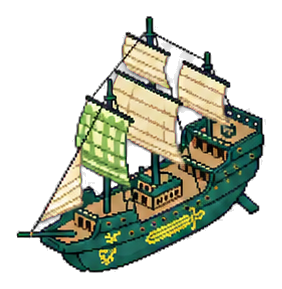
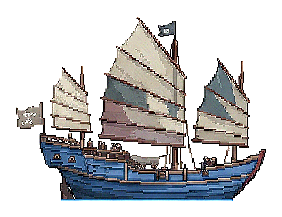
feat(naval): refresh enemy ship directional sprites

diff --git a/docs/changes/CHG-20260822-enemy-ship-four-view-refresh.md b/docs/changes/CHG-20260822-enemy-ship-four-view-refresh.md
@@ -1,0 +1,44 @@
+# CHG-20260822：海战敌舰四方向素材更新
+
+- Status: done
+- Type: content
+- Date: 2026-08-22
+
+## 目标
+
+用用户提供的两张互补船只四视图替换海战中敌方运输船、护卫舰和旗舰的四方向运行时贴图，使敌舰转向后显示对应船头、船尾或侧视形象，不再使用旧敌舰素材。
+
+## 范围
+
+- 替换 `enemy_transport_*`、`enemy_frigate_*`、`enemy_flagship_*` 共 12 张方向贴图。
+- 第一张素材使用左侧侧视列和右侧端视列；第二张素材使用右侧侧视列和左侧端视列。
+- 源图第一、二、四行分别映射运输船、护卫舰、旗舰。
+- 保持 `NavalShipView` 的动态资源路径、战场占格、朝向规则、HUD 舰况卡和玩法不变。
+
+## 非目标
+
+- 不使用两张源图中间的木质甲板俯视列。
+- 不接入第三行大型白帆商船，不新增船型。
+- 不修改玩家舰船、海怪、鱼群、要塞、炮台或大地图船只素材。
+- 不修改舰船数值、碰撞、移动、转向、攻击和 AI。
+
+## 验收检查
+
+- [x] 三种敌舰的 `e/s/w/n` 共 12 张贴图均可由 Godot 加载，背景透明且不存在俯视甲板图。
+- [x] 东西方向为互补侧视，南北方向为互补端视，转向后贴图随朝向正确切换。
+- [x] 默认海战镜头下三种敌舰仍完整落在既有逻辑占格内，旗帜、船帆和船体不被裁断。
+- [x] Godot 资源导入、C# 构建和海战专项 smoke test 通过。
+
+## 验证证据
+
+- Godot 4.7.1 .NET 重新导入 12 张 PNG：通过，退出码 `0`。
+- `dotnet build ChangcheHeroes.csproj --no-restore --nologo`：通过，`0` 警告、`0` 错误。
+- Godot headless `tests/test_naval_scene_smoke.gd`：通过，确认海战场景、敌舰队生成与运行时资源加载未回归。
+- PNG 合同检查：12 张贴图均有有效 Alpha；东/西贴图宽大于高，南/北贴图高大于宽；透明边距完整。
+- 四方向总览检查：三种船型的旗帜、船帆和船体均完整，未出现中间木质甲板俯视图或相邻行残片。
+- 窗口 smoke 在既有“点击逃跑格触发逃跑”断言处连续两次失败；该断言发生在敌舰素材加载之后，headless 同脚本通过，本次未修改逃跑、输入或移动代码。
+
+## 最终核对
+
+- Files changed: `assets/naval/battle/ships/enemy_{transport|frigate|flagship}_{e|s|w|n}.png`、`docs/design/art-direction.md`、本变更记录。
+- Limitations/follow-ups: 源图第三行大型白帆商船没有对应当前运行时敌舰类型，按范围保留未接入；窗口 smoke 的逃跑格时序失败作为既有测试问题单独处理。

diff --git a/docs/design/art-direction.md b/docs/design/art-direction.md
@@ -79,6 +79,12 @@
 - 当前目标完成后，旧提示自动淡出，内容切换至下一步后淡入；不显示上一页、下一页和页码按钮。收起/展开入口置于墨条右侧安全区内，使标题、正文与入口共用同一笔触背景。
 - 收起教程后隐藏完整墨条与教程文字，但“展开”入口必须保留一条紧凑干笔墨签作为底纹，并在小墨签中水平居中；重新展开时小墨签隐藏，按钮回到完整墨条右上角，禁止让入口文字单独悬浮在战场上。
 
+## 海战敌舰四方向素材
+
+- 战斗中的敌方运输船、护卫舰和旗舰均使用独立的东、南、西、北四方向像素贴图，路径约定为 `assets/naval/battle/ships/enemy_{transport|frigate|flagship}_{e|s|w|n}.png`；转向时只切换对应贴图，不旋转侧视图代替其他方向。
+- 2026-08-22 敌舰素材取自用户提供的两张互补四视图：第一张左列作为东向侧视、右列作为南向端视，第二张右列作为西向侧视、左列作为北向端视。两张图的中间木质甲板俯视列全部禁用，不得进入战斗资源。
+- 船型按源图行映射：第一行运输船、第二行护卫舰、第四行旗舰；第三行大型白帆商船暂不对应当前敌舰类型。裁切后保留透明底、原像素配色和完整旗帜/船帆，并适配既有方向画布，使默认镜头下的占格尺寸不突变。
+
 ## 海战劝降交涉
 
 - 劝降交涉复用新手教程的透明像素水墨干笔墨条，不再使用独立宣纸、布帛或规整卡片框；标题、正文和操作文字直接叠加在墨迹安全区。

diff --git a/docs/qa/playtest.md b/docs/qa/playtest.md
@@ -246,6 +246,7 @@
 | 2026-08-10 / sea fog initial visibility 2 | Codex | 左上大陆改为默认已知，出生与航行时按平滑相机真实可见矩形完整揭示，屏幕四角和边缘不再残留黑色迷雾 | 大陆逐单元断言、相机四角断言、1344×896 OpenGL 航行与完整海图截图 | 交付用户试玩 |
 | 2026-08-20 / naval terrain stamp render 1 | Codex | 随机海战图可把林地源头、连续河道、草岸和海滩河口作为一枚 6×8 地貌整张绘制，覆盖区域不再堆叠单格占位图 | 48 种子连通/避让断言、Godot headless 与 Vulkan 专项测试、1344×896 实战预览 | 交付用户试玩并决定下一批印章类型 |
 | 2026-08-20 / naval terrain stamp render 2 | Codex | 河口印章改为与战场一致的低饱和灰青宣纸像素水墨：树冠归并成墨团、河水改为蓝灰、河口用透明横向墨纹接入海面 | PNG Alpha/色域抽查、Godot headless 专项回归、1344×896 Vulkan 实战预览 | 交付用户确认风格后扩展港口、小镇等印章 |
+| 2026-08-22 / enemy ship four-view refresh 1 | Codex | 敌方运输船、护卫舰、旗舰替换为用户四视图素材的东南西北 12 张方向贴图；两张源图的中间甲板俯视列未接入 | 12 张 PNG Alpha/方向比例检查、Godot 资源导入、C# 构建、headless 海战 smoke、四方向总览 | 交付用户试玩 |
 
 ## 伏波古岭码头专项验收（2026-08-11）
 
